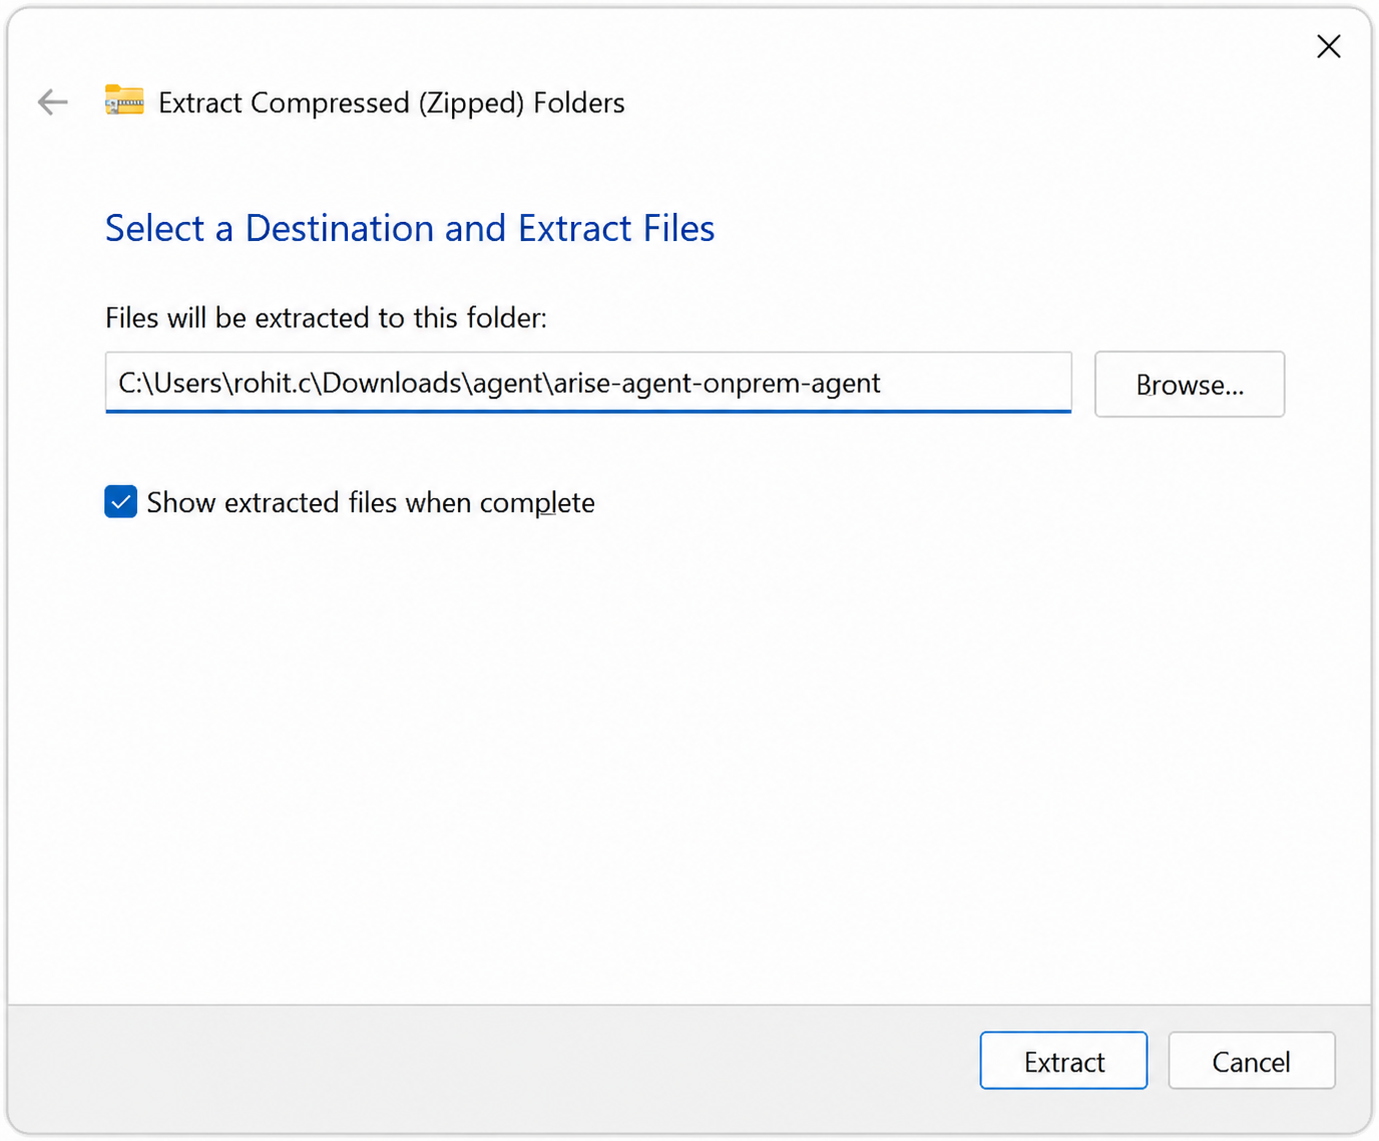
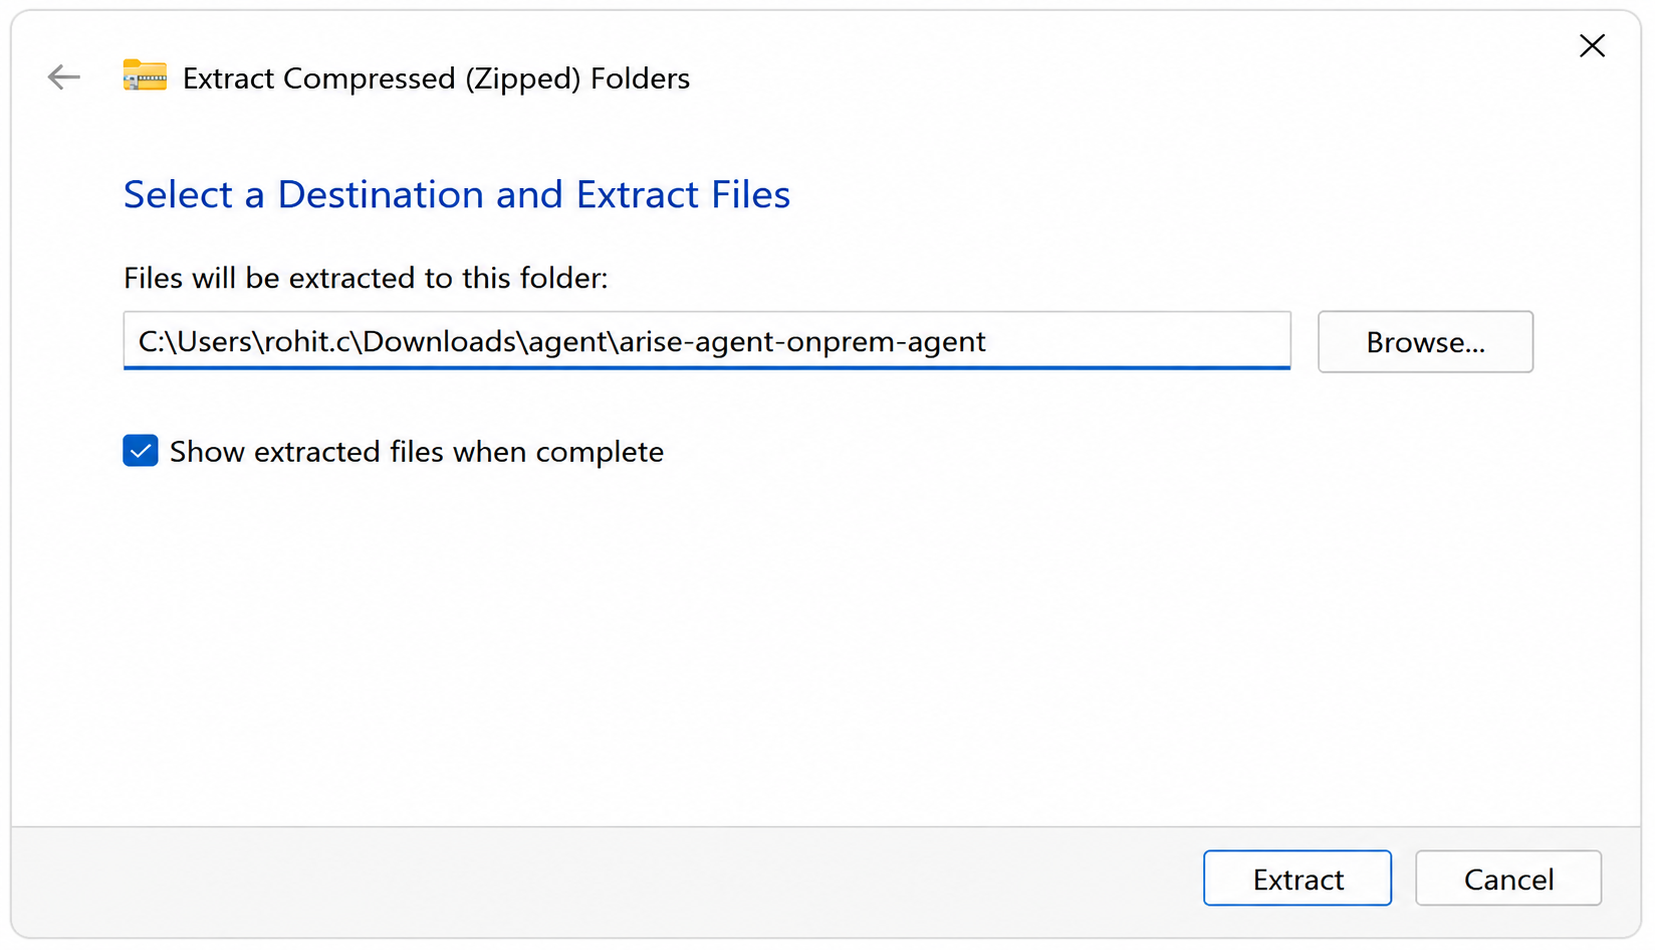
Update On-Prem Agent documentation images and remove obsolete files

diff --git a/docs/platform/key_concepts/on-premise-agent/on-prem-agent.md b/docs/platform/key_concepts/on-premise-agent/on-prem-agent.md
@@ -134,12 +134,12 @@ The ZIP package is downloaded to your local machine.
 - Right-click the ZIP package
 - Click **Extract All**
 
-<img src="/img/platform/key-concepts/on-premise-agent/extract-file.png" alt="Extract ZIP Package" width="700" height="400"/>
+<img src="/img/platform/key-concepts/on-premise-agent/extract.png" alt="Extract ZIP Package" width="700"/>
 
 - Choose the extraction location
 - Click **Extract**
 
-<img src="/img/platform/key-concepts/on-premise-agent/extract-file-to-destination.png" alt="Select Extraction Location" width="700" height="400"/>
+<img src="/img/platform/key-concepts/on-premise-agent/extract-file-to-destination.png" alt="Select Extraction Location" width="700"/>
 
 ---
 